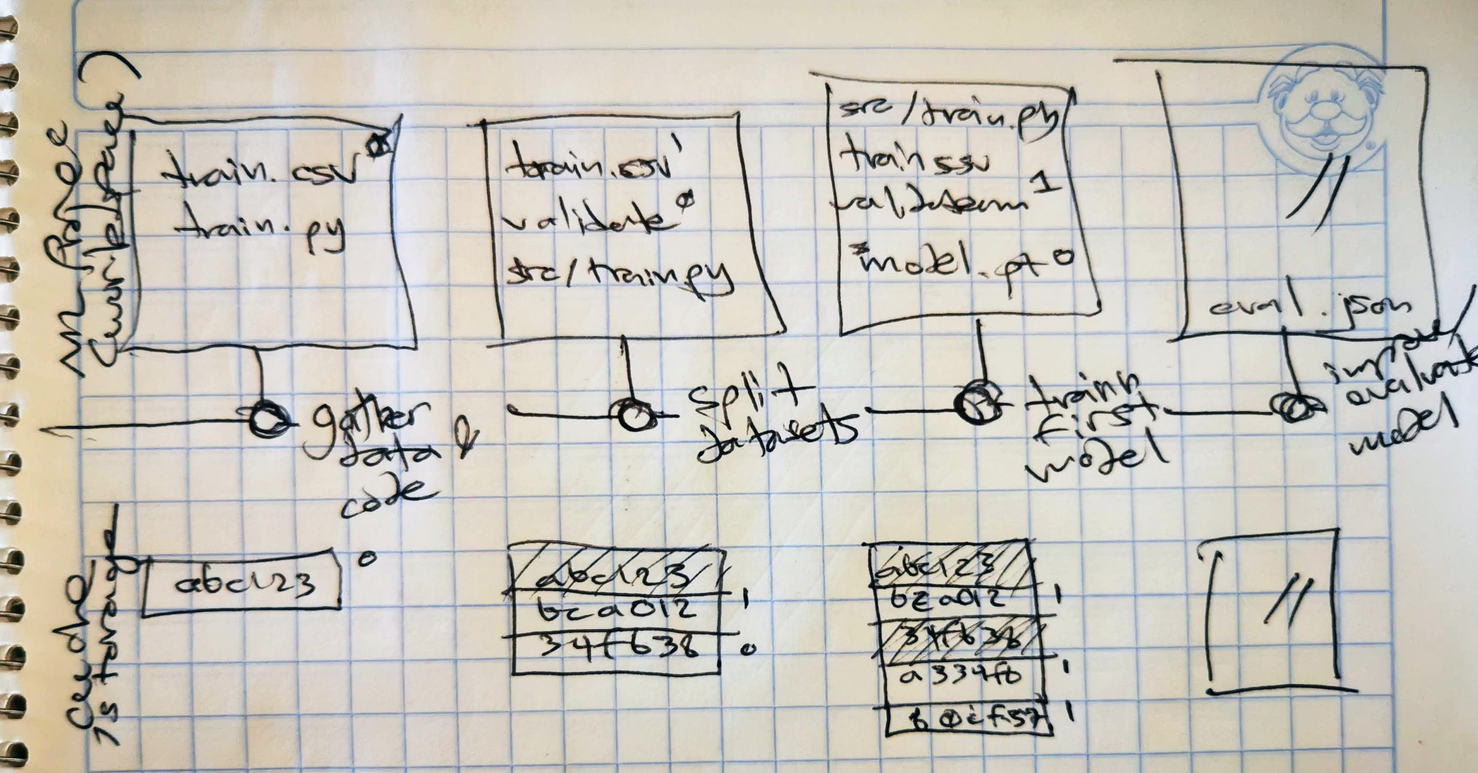
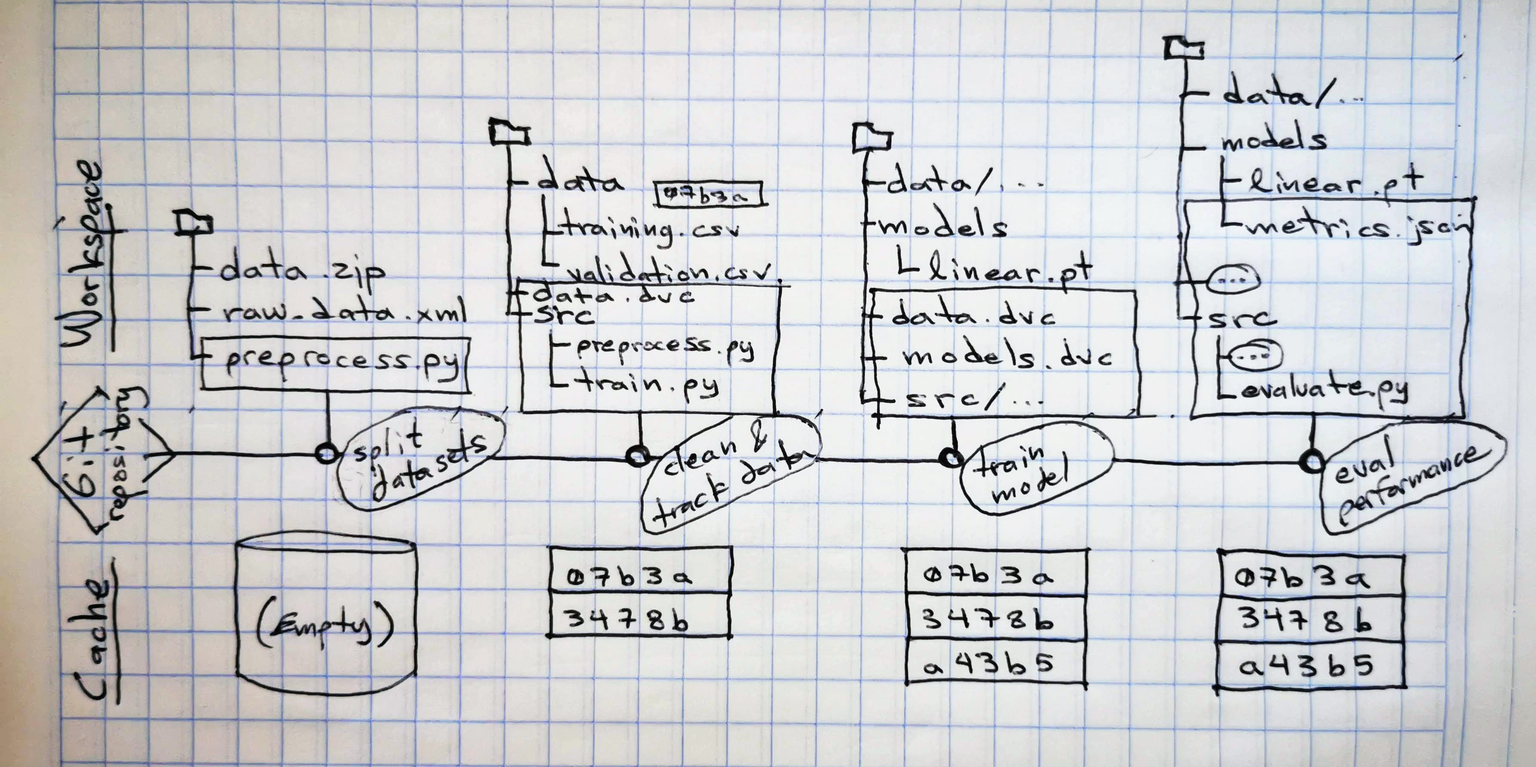
guide: Data Mgmt improvements and
hide the benefits list for now

diff --git a/content/docs/user-guide/data-management/index.md b/content/docs/user-guide/data-management/index.md
@@ -18,18 +18,18 @@ CLI) to access them directly._
 
 To maintain control and visibility over all your data and models, DVC stores
 large files and directories for you in a structured way. It tracks them by
-logging their locations and unique descriptions in **code-like metafiles**.
+logging their locations and unique descriptions in YAML files.
 
 ![DVC-cached storage](/img/dvc_managed_storage.png)
 
-![]() _DVC writes `.dvc` files next to large files. A data cache indexes them
-with `md5` checksums. Mass storage only holds unique files pushed with DVC for
-back up or sharing._
+![]() _DVC writes `.dvc` files with YAML content next to large files. A data
+cache indexes them with `md5` checksums. Mass storage holds al unique files
+pushed with DVC for back up or sharing._
 
-Committing DVC metafiles to Git along your ML source files creates
-**reproducible project versions**: Its history becomes easy to review, rewind,
-and repeat going forward (by anyone). There's no need to come up with naming
-schemes for changed data and model files.
+Committing the files generated by DVC to Git along your ML sources creates
+reproducible project versions. The history becomes easy to review, rewind, and
+repeat going forward (by anyone). There's no need to come up with special file
+names for changed data or models.
 
 ![Versioning data with Git](/img/project_versioning.png) _You can use Git
 history to store different dataset and model versions without renaming any files
@@ -47,9 +47,9 @@ model.bin
 src/train.py
 ```
 
-DVC appends unique <abbr>project</abbr> data and model file contents to a hidden
-<abbr>cache</abbr>. Entries in this data store are organized by content hashes,
-similar to an index.
+DVC appends unique large files to a hidden <abbr>cache</abbr> organized by
+content hashes (similar to an index). As the data changes, its full history can
+be preserved this way, while preventing accidental file deletions.
 
 ```cli
 .dvc/cache
@@ -60,16 +60,10 @@ similar to an index.
     ...
 ```
 
-<!-- But what about old versions? -->
-
-<!-- While DVC caching prevents file duplicates (optimizing storage), it can also store old data that's no longer relevant. -->
-
-<!-- Prevents accidental deletions. -->
-
-Now that they're cached safely, DVC-tracked data and models in the
-<abbr>workspace</abbr> can be [replaced with file links], so you can continue
-seeing and using them. File hashes (usually MD5) are written in human-readable
-YAML [metafiles] next to the original data.
+Now that they're cached safely, DVC-tracked files in the <abbr>workspace</abbr>
+can be replaced with [file links], so you continue seeing and using them as
+usual. File hashes (usually MD5) are written in human-readable YAML [metafiles]
+next to the original data.
 
 ```git
   training.csv -> .dvc/cache/0a/aa77e
@@ -88,26 +82,42 @@ YAML [metafiles] next to the original data.
 ```
 
 [metafiles]: /doc/user-guide/project-structure
-[replaced with file links]:
-  /doc/user-guide/data-management/large-dataset-optimization
+[file links]: /doc/user-guide/data-management/large-dataset-optimization
 
 <admon type="info" title="Data codification">
 
-DVC replaces data in the project with code-like files (and links) as explain
-above. Codifying data lets you treat it as a first-class citizen in any code
-repository because metafiles can be [versioned with Git] (or any SCM) along with
-code, config, etc.
+DVC replaces data assets in the project with code-like YAML [metafiles] (and
+links). Codifying data lets you treat it as a first-class citizen in any code
+repository.
+
+</admon>
+
+To keep track of relevant versions of the data, models, etc. cached by DVC, the
+corresponding metafiles should be [versioned with Git] (or any SCM) along with
+the rest of the code. This also means that a single file name can represent
+different contents, keeping your project clean. You can use branches or tags to
+organize data versions instead.
 
 [versioned with git]:
   https://git-scm.com/book/en/v2/Getting-Started-About-Version-Control
 
-</admon>
+```cli
+$ git checkout dev-branch
+$ dvc checkout
+$ ls
+... training.csv      2 G # old data
+... model.bin       2.7 M # old model
+... src/train.py    214 K
 
-<!-- Technical diagram? -->
-
-<!-- It's also cleaner since there's no need for special file names like `2020-03_training_split (256x256)` to organize variations (use repo branches or tags instead). -->
-
-## Benefits and tradeoffs
+$ git checkout latest-tag
+$ dvc checkout
+$ ls
+... training.csv      3 G # latest data
+... validation.xml    1 G
+... model.bin       3.2 M # better model
+... src/train.py    354 K
+... src/evaluate.py 175 K # more code
+```
 
 Adopting DVC's approach requires a few key changes to your workflow:
 
@@ -118,7 +128,9 @@ Adopting DVC's approach requires a few key changes to your workflow:
 
 [indirectly]: https://en.wikipedia.org/wiki/Indirection
 
-At the same time, it comes with many benefits (recap):
+<!-- ## Benefits and tradeoffs
+
+At the same time, it comes with many benefits:
 
 - Easily manage **data as code** and [optimize space usage][file links]
   automatically.
@@ -150,19 +162,10 @@ At the same time, it comes with many benefits (recap):
 [ml pipelines]: /doc/user-guide/pipelines
 [ci/cd for ml]: https://cml.dev/
 [productize]: https://mlem.ai/
+-->
+
+---
 
 In summary, DVC establishes a mature method to manage data assets for ML
 projects, letting you focus on more important tasks like exploration,
 preparation, cross validation, etc.
-
-<!-- ## Storage locations
-
-The cache is the first storage layer for you and your team to share and
-collaborate, but more can be defined in DVC [config files] (using `dvc remote`
-commands). These storage locations let you back up and share data, features, ML
-models, etc. Supported platforms include SSH, Amazon S3, Google Cloud Storage,
-Microsoft Azure, among [many more].
-
-[config files]: /doc/user-guide/project-structure/internal-files
-[many more]: /doc/command-reference/remote/add#supported-storage-types
--->
